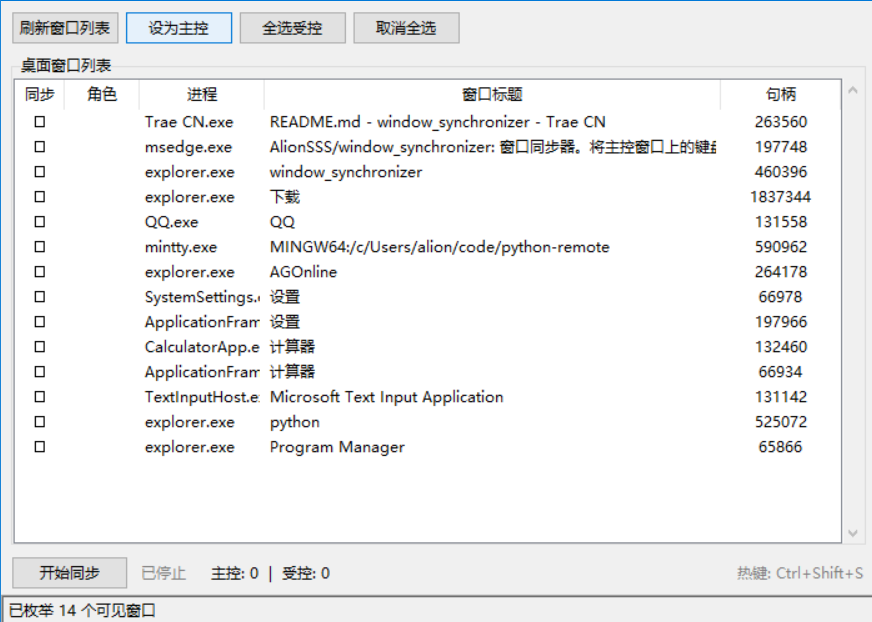
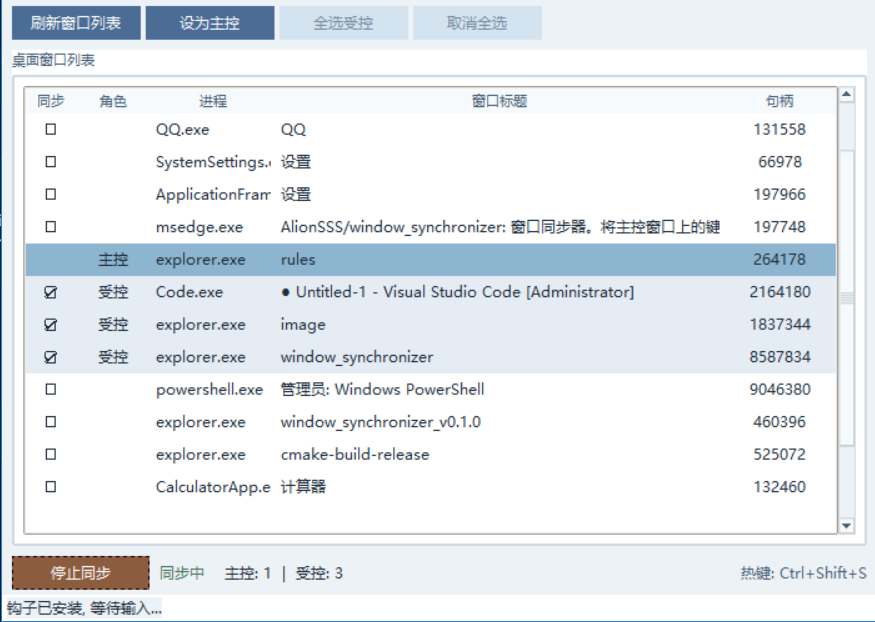
docs: update README to adjust screenshot position and add download guide
调整了软件截图的放置位置，新增了直接从Releases下载最新版本的指引

diff --git a/README.md b/README.md
@@ -2,13 +2,12 @@
 
 将主控窗口上的键盘、鼠标操作实时同步到多个受控游戏窗口，实现"操作一个，全部跟随"。
 
+想要直接使用？直接从 [Releases](https://github.com/AlionSSS/window_synchronizer/releases) 下载最新版本，例如 `window_synchronizer_v0.1.0.zip`。
+
 ## 适用场景
 
 - 同时运行多个相同游戏窗口，需要统一操控
 - 目标游戏为 Win32 GDI 渲染（基于 Windows 消息机制处理输入）
-
-![软件截图](software_screenshot.png)
-
 
 ## 功能特性
 
@@ -18,6 +17,8 @@
 - **鼠标同步** — 左键/右键/中键点击 + 拖拽 + 光标移动同步，支持跨窗口比例坐标映射
 - **全局热键** — `Ctrl+Shift+S` 快速启停同步
 - **窗口状态监控** — 窗口关闭时自动移除或停止同步
+
+![软件截图](software_screenshot.png)
 
 ## 环境要求
 
